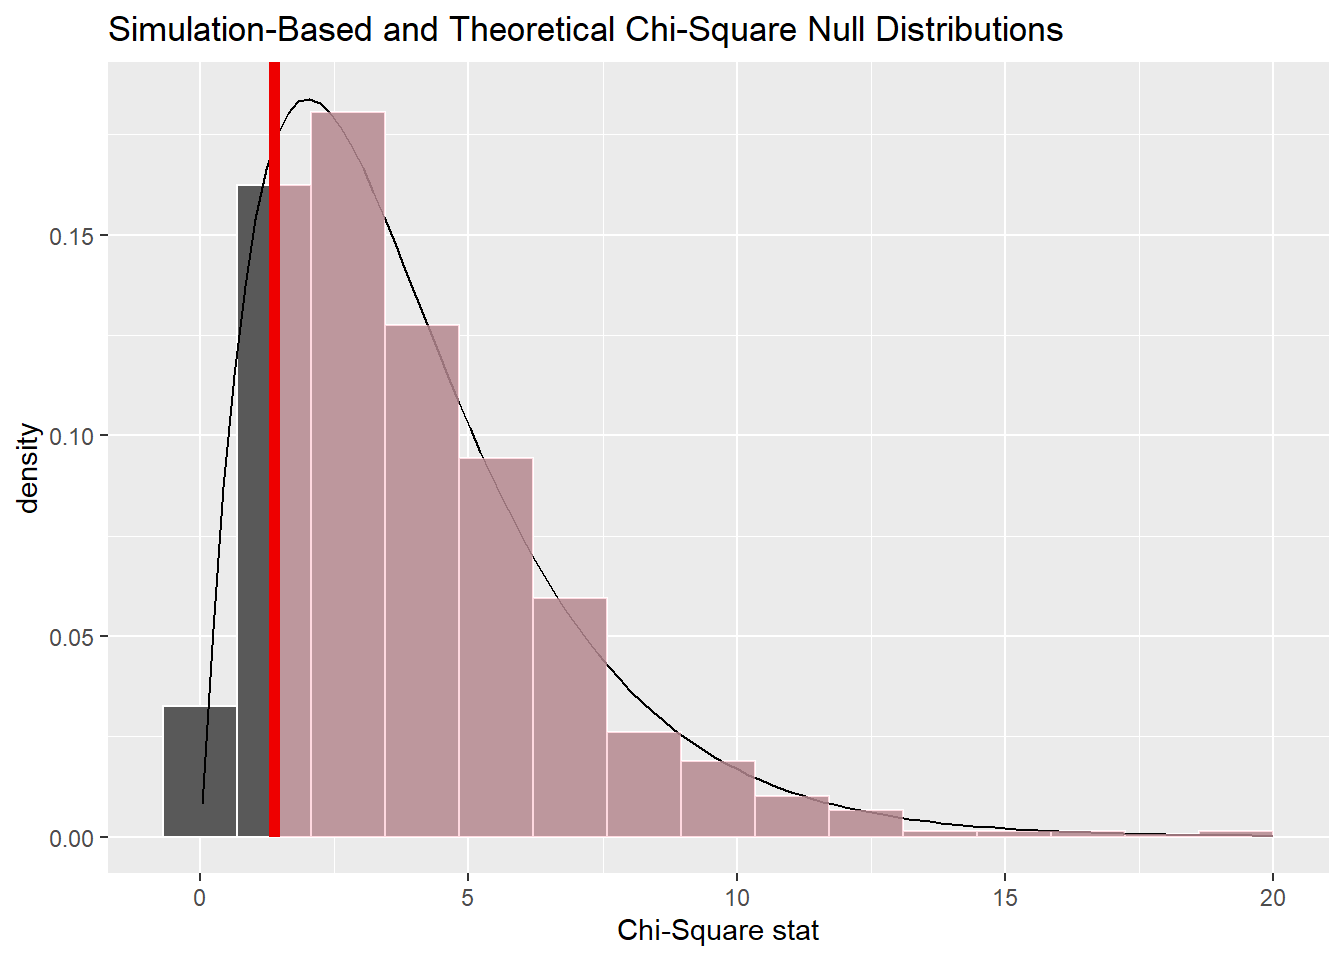
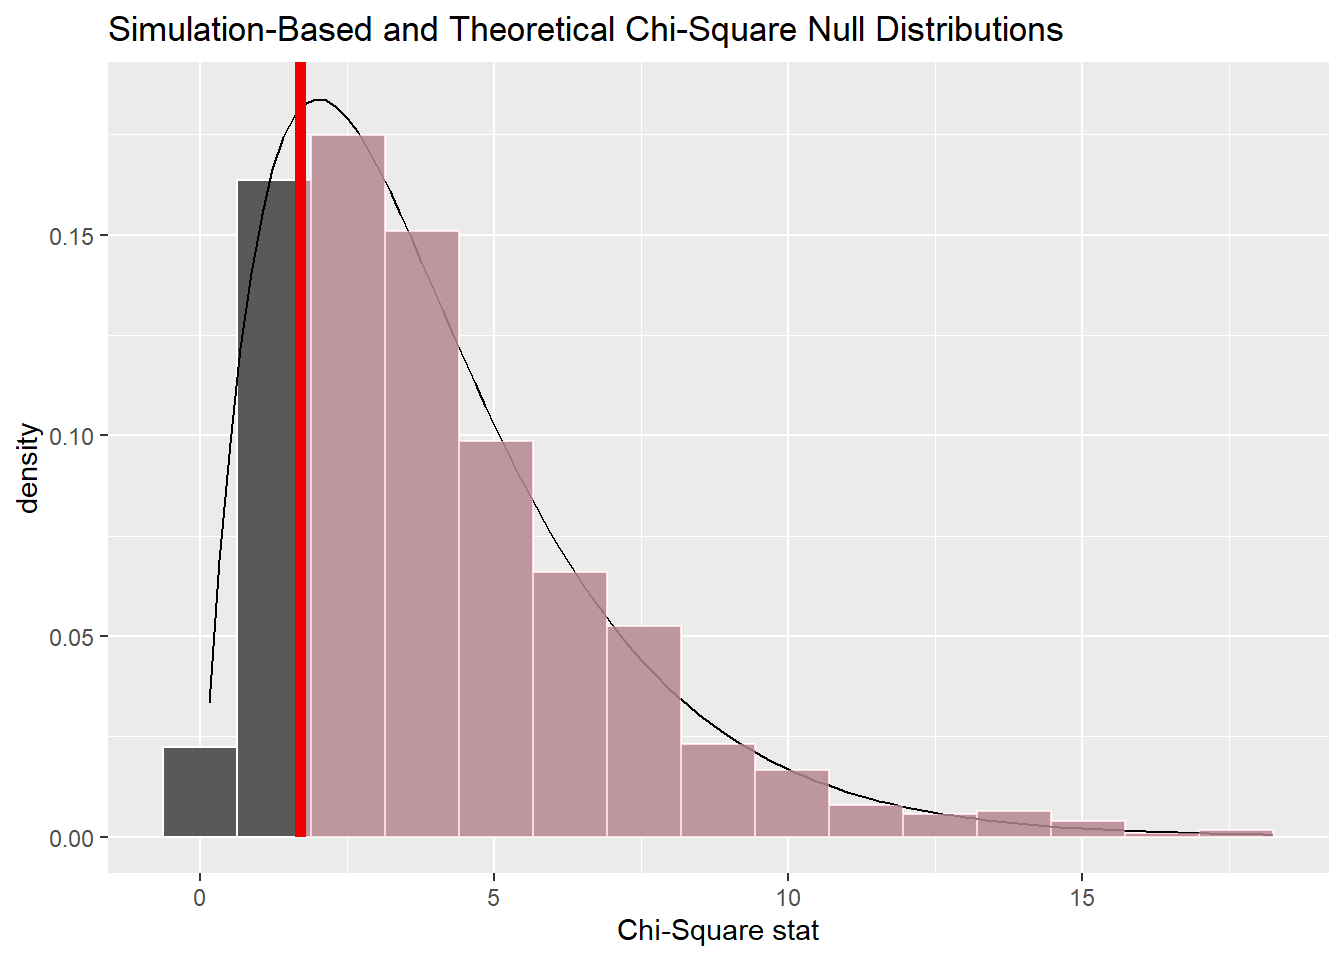
finalization of the project

diff --git a/README.md b/README.md
@@ -52,7 +52,10 @@ Das Package kann man folgendermaßen installieren:
 
 ``` r
 # install.packages("remotes")
-remotes::install_github("00000000014A5469/fg_vs_dailyreturn_project")
+library(remotes)
+remotes::install_git("https://gitlab.lrz.de/00000000014A5469/fg_vs_dailyreturn_project.git")
+#Das Package heißt project1, d.h.
+library(project1) #ruft das Package auf
 ```
 
 ## Datensatz
@@ -132,30 +135,30 @@ ich eine numerische Zusammenfassung:
 library(project1)
 num_summary()
 #> [1] "Time horizont"
-#> [1] "2011-01-03 to 2023-01-23"
+#> [1] "2011-01-03 to 2023-01-24"
 #> [1] "Total amount of observations (cleaned)"
-#> [1] 3032
+#> [1] 3035
 #> [1] "Summary of the ticker price data"
 #>    Min. 1st Qu.  Median    Mean 3rd Qu.    Max. 
-#>   1.455  11.640  16.616  61.528  31.271 409.970 
+#>   1.455  11.642  16.623  61.555  31.725 409.970 
 #> [1] "Procentual change over given time"
-#> [1] "7518.03%"
+#> [1] "8100.11%"
 #> [1] "Frequency of each Sentiment over given time"
 #> 
 #>  extreme fear extreme greed          fear         greed       neutral 
-#>           494           326           784           908           520 
+#>           495           326           786           910           518 
 #> [1] "Frequency of negative(0) and positive(1) closed days over given time"
 #> 
 #>    0    1 
-#> 1568 1464 
+#> 1569 1466 
 #> [1] "Frequency of negative(0) and positive(1) closed days in regard of sentiment over given time"
 #>                
 #>                   0   1
-#>   extreme fear  275 219
+#>   extreme fear  276 219
 #>   extreme greed 160 166
-#>   fear          397 387
-#>   greed         461 447
-#>   neutral       275 245
+#>   fear          398 388
+#>   greed         461 449
+#>   neutral       274 244
 ```
 
 In den Test fließen mehr 3000 Beobachtungen ein. Dabei wurden im
@@ -214,9 +217,9 @@ test_data(visuals = TRUE)
     #>  Pearson's Chi-squared test
     #> 
     #> data:  table(df_fg$Sentiment, df_fg$Close)
-    #> X-squared = 4.9714, df = 4, p-value = 0.2902
+    #> X-squared = 5.2074, df = 4, p-value = 0.2667
     #> 
-    #> [1] "According to the Chi-Square test, one get a p-value of 0.29 which is bigger than the significance level of 0.05.\n                One cannot reject the null-hypothesis, which means that those variables are stochastically independent and there is\n                no relationship between the Fear&Greed sentiment and the daily closings."
+    #> [1] "According to the Chi-Square test, one get a p-value of 0.267 which is bigger than the significance level of 0.05.\n                One cannot reject the null-hypothesis, which means that those variables are stochastically independent and there is\n                no relationship between the Fear&Greed sentiment and the daily closings."
 
 ## Beispiele
 
@@ -240,7 +243,7 @@ test_data("^GSPC",visuals = TRUE)
     #>  Pearson's Chi-squared test
     #> 
     #> data:  table(df_fg$Sentiment, df_fg$Close)
-    #> X-squared = 37.476, df = 4, p-value = 1.437e-07
+    #> X-squared = 38.349, df = 4, p-value = 9.495e-08
     #> 
     #> [1] "According to the Chi-Square test, one get a p-value of 0 which is less than the significance level of 0.05.\n                One can reject the null-hypothesis, which means that those variables are stochastically dependent and there is\n                a relationship between the Fear&Greed sentiment and the daily closings."
 
@@ -259,7 +262,7 @@ test_data("^GDAXI",visuals = TRUE)
     #>  Pearson's Chi-squared test
     #> 
     #> data:  table(df_fg$Sentiment, df_fg$Close)
-    #> X-squared = 26.608, df = 4, p-value = 2.385e-05
+    #> X-squared = 26.977, df = 4, p-value = 2.009e-05
     #> 
     #> [1] "According to the Chi-Square test, one get a p-value of 0 which is less than the significance level of 0.05.\n                One can reject the null-hypothesis, which means that those variables are stochastically dependent and there is\n                a relationship between the Fear&Greed sentiment and the daily closings."
 
@@ -278,6 +281,6 @@ test_data("GC=F",visuals = TRUE)
     #>  Pearson's Chi-squared test
     #> 
     #> data:  table(df_fg$Sentiment, df_fg$Close)
-    #> X-squared = 1.3768, df = 4, p-value = 0.8482
+    #> X-squared = 1.6962, df = 4, p-value = 0.7914
     #> 
-    #> [1] "According to the Chi-Square test, one get a p-value of 0.848 which is bigger than the significance level of 0.05.\n                One cannot reject the null-hypothesis, which means that those variables are stochastically independent and there is\n                no relationship between the Fear&Greed sentiment and the daily closings."
+    #> [1] "According to the Chi-Square test, one get a p-value of 0.791 which is bigger than the significance level of 0.05.\n                One cannot reject the null-hypothesis, which means that those variables are stochastically independent and there is\n                no relationship between the Fear&Greed sentiment and the daily closings."
